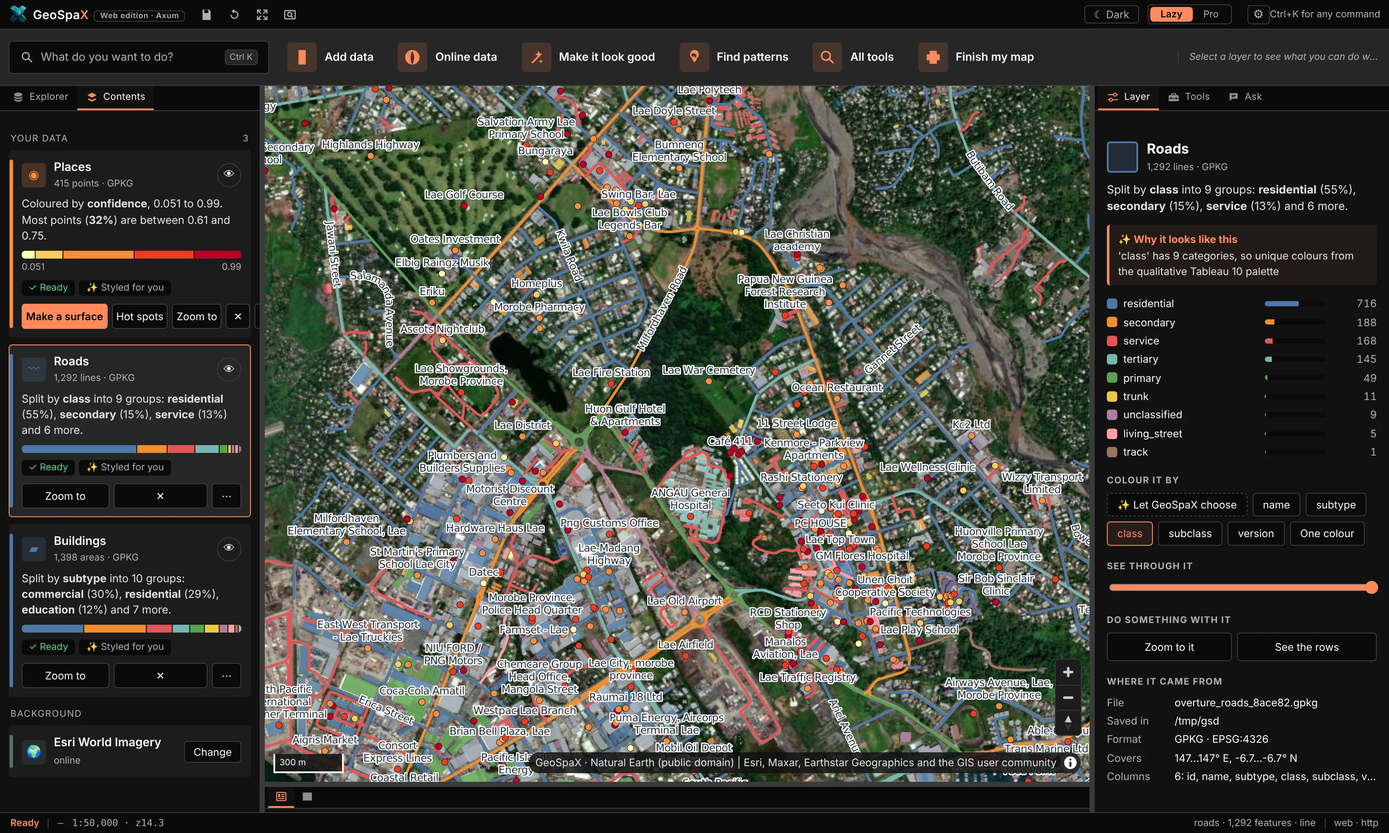
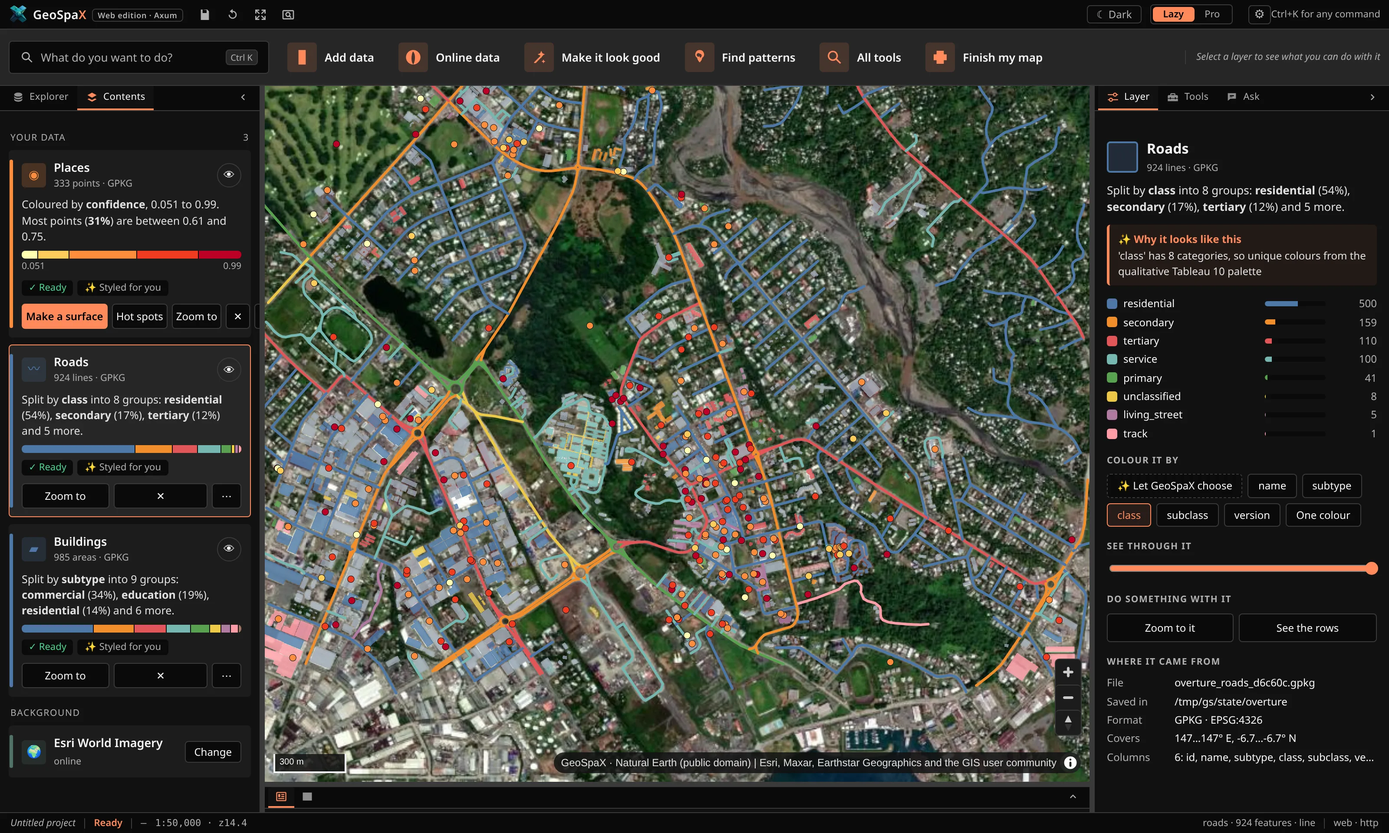
Retake the Lazy, Pro and globe hero screenshots on the current UI; add a screenshot inventory

diff --git a/docs/SCREENSHOTS.md b/docs/SCREENSHOTS.md
@@ -1,0 +1,11 @@
+# Screenshot inventory
+
+Retaken 28 October 2026 (PGT) from main after PR #74, 1600x960 at 2x, dark theme. Capture: `scripts/shots-hero.mjs`.
+
+| Shot | Mode | Old | New | Used in |
+|---|---|---|---|---|
+| screenshot-lazy.webp | Lazy | Central Lae, Overture data (release of the time), Esri imagery, ribbon-era Lazy bar | Central Lae, Overture 2026-09-17.0 places (333), roads (924), buildings (985), Esri World Imagery, Roads card selected, 1:50,000 | README, site, in4metrix GeoSpax page |
+| screenshot-pro.webp | Pro | Same data, old Home ribbon (Settings, Refresh, Start) | Same data, current Home ribbon (New project, Open project, Save), Roads unique values by class, 1:50,000 | README, site, in4metrix GeoSpax page (geospax-pro.png card) and Home page |
+| screenshot-globe.webp | Pro | Empty project, globe, Esri imagery, old ribbon | Empty project, globe, Esri imagery, current ribbon | README, site, in4metrix GeoSpax page |
+
+Not retaken in this pass (no working generator after the ribbon tab changes in 3758664, or the source data is not on hand): ribbon-swipe, ribbon-time, tour-* and plugin-* shots. The industry maps were redone in PR #74.
